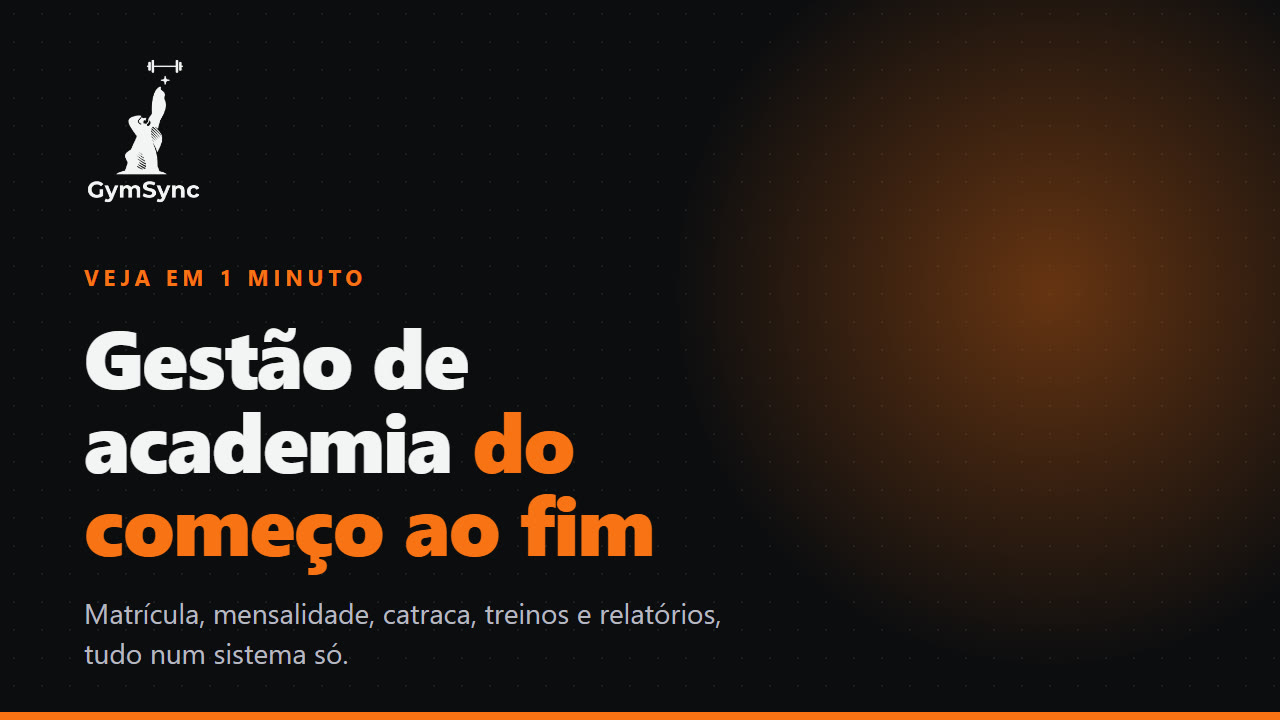
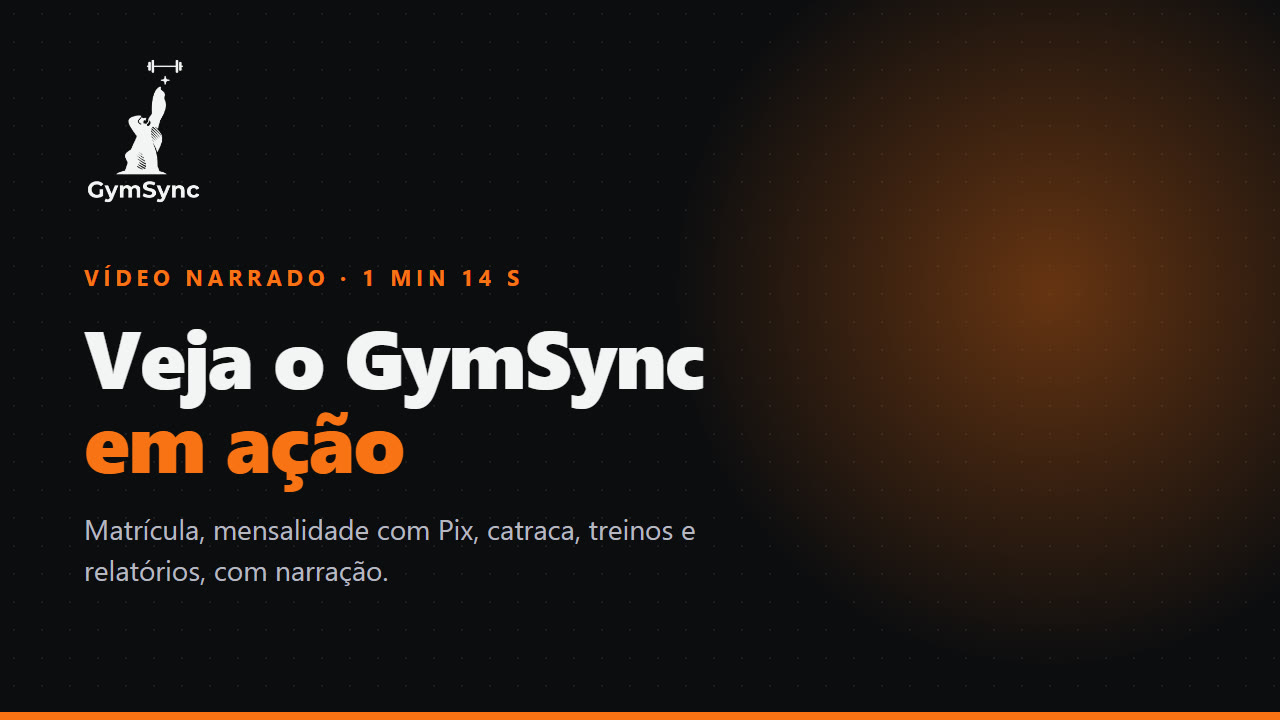
README: vídeo narrado como destaque e capa nova
O destaque agora é o vídeo narrado (1 min 14 s), que não está no site,
com capa nova e link direto para o arquivo na release videos-gymsync.

Changed region(s): [[0.0625, 0.4583, 0.5625, 0.9472], [0.0625, 0.3667, 0.4062, 0.3972]]

diff --git a/README.md b/README.md
@@ -6,11 +6,11 @@ Desenvolvi este sistema para um trabalho acadêmico do curso de Análise e Desen
 
 **Experimente agora:** [gymsync-ucfj.onrender.com](https://gymsync-ucfj.onrender.com), com o botão "Testar como visitante" (dados de exemplo, só leitura). O site roda em plano gratuito e dorme sem uso, então a primeira visita pode levar cerca de um minuto para abrir.
 
-[![Vídeo de apresentação do GymSync, cerca de 1 minuto e 15 segundos](docs/img/video-capa.jpg)](https://gymsync-ucfj.onrender.com/#video)
+[![Vídeo narrado de apresentação do GymSync, 1 minuto e 14 segundos](docs/img/video-capa.jpg)](https://github.com/PedroFerrari01/GymSync/releases/download/videos-gymsync/gymsync-oficial-narrado-v2.mp4)
 
-**Vídeo de apresentação (1 min 15 s):** matrícula, mensalidade com Pix, catraca, ficha de treino e relatórios, com narração. Ele toca no próprio site, no fim do "Quem somos" (clique na imagem).
+**Vídeo narrado (1 min 14 s):** matrícula, mensalidade com Pix, catraca, ficha de treino e relatórios, com narração. Clique na imagem para assistir.
 
-**Outros vídeos:** tour pelo sistema real, versão narrada, edição de impacto e apresentação da faculdade. Todos estão na [release `videos-gymsync`](https://github.com/PedroFerrari01/GymSync/releases/tag/videos-gymsync).
+**Outros vídeos:** o tour pelo sistema real toca no próprio site, no fim do "Quem somos". Também há uma edição de impacto e uma apresentação da faculdade, todos na [release `videos-gymsync`](https://github.com/PedroFerrari01/GymSync/releases/tag/videos-gymsync).
 
 ![Tela de login do GymSync](docs/img/login.jpg)
 
